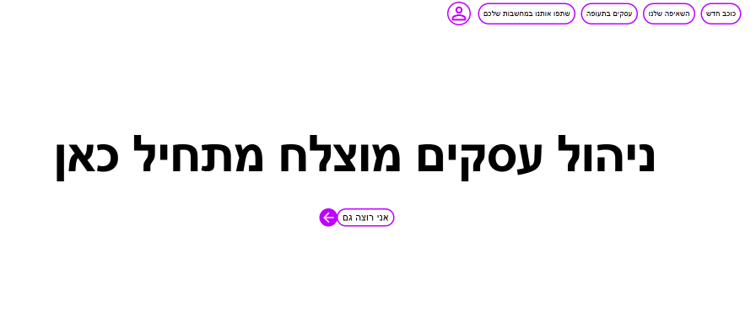
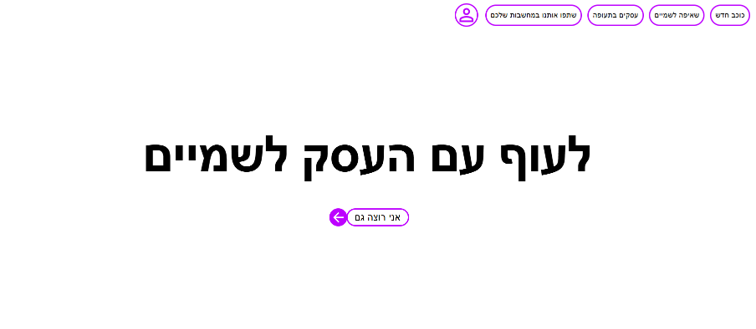
copy

Changed region(s): [[0.0608, 0.3951, 0.8823, 0.5471], [0.578, 0.0, 1.0, 0.0912], [0.4259, 0.6079, 0.5476, 0.6991]]

diff --git a/src/components/webmind/ourdoing.tsx b/src/components/webmind/ourdoing.tsx
@@ -14,24 +14,26 @@ export const OurDoing = () => {
                 <Grid width={"50%"} border={'5px solid '+colors.backgroundcolor} borderRadius={'40px'} marginRight={'25%'} marginBottom={'-25px'} sx={{backgroundColor: colors.backgroundcolor}} zIndex={1}>
                   <Typography variant="body1" fontSize={'24px'} color={colors.anothercolor} border={'3px solid '+colors.anothercolor} borderRadius={'40px'}>1</Typography>
                 </Grid>
-                <Typography variant="body1" color={colors.color} padding={'30px'} border={'3px solid '+colors.anothercolor} borderRadius={'40px'}>
-                  התפתחות אישית היא מפתח להצלחה. לכן פיתחנו פלטפורמה ייחודית שבה תוכלו לתכנן סדר יום, ליצור לוח עם מטרות ותזכורות, ולנהל את הזמן שלכם בצורה חכמה. בואו להתחיל את המסע שלכם להצלחה!! אנחנו מאמינים שכל אחד יכול לממש את הפוטנציאל שלו בדרך שמתאימה לו, התחילו להיעזר בפלטפורמה שפיתחנו וגם אתם תגיעו לכוכבים!
+                <Typography variant="body1" color={colors.color} padding={'30px'} border={'3px solid '+colors.anothercolor} borderRadius={'40px'} height={'200px'}>
+                  התפתחות אישית היא מפתח להצלחה. בואו להתחיל את המסע שלכם לשמים!! אנחנו מאמינים שכל אחד יכול לממש את הפוטנציאל שלו בדרך שמתאימה לו, התחילו להיעזר בפלטפורמה שפיתחנו וגם אתם תגיעו לכוכבים!
                 </Typography>
               </Grid>
               <Grid container width={'30%'}>
                 <Grid width={"50%"} border={'5px solid '+colors.backgroundcolor} borderRadius={'40px'} marginRight={'25%'} marginBottom={'-25px'} sx={{backgroundColor: colors.backgroundcolor}} zIndex={1}>
                   <Typography variant="body1" fontSize={'24px'} color={colors.anothercolor} border={'3px solid '+colors.anothercolor} borderRadius={'40px'}>2</Typography>
                 </Grid>
-                <Typography variant="body1" color={colors.color} padding={'30px'} border={'3px solid '+colors.anothercolor} borderRadius={'40px'}>
-                  התפתחות אישית היא מפתח להצלחה. לכן פיתחנו פלטפורמה ייחודית שבה תוכלו לתכנן סדר יום, ליצור לוח עם מטרות ותזכורות, ולנהל את הזמן שלכם בצורה חכמה. בואו להתחיל את המסע שלכם להצלחה!! אנחנו מאמינים שכל אחד יכול לממש את הפוטנציאל שלו בדרך שמתאימה לו, התחילו להיעזר בפלטפורמה שפיתחנו וגם אתם תגיעו לכוכבים!
+                <Typography variant="body1" color={colors.color} padding={'30px'} border={'3px solid '+colors.anothercolor} borderRadius={'40px'} height={'200px'}>
+                  יש לך עסק? רוצה להעיף אותו רחוק? להתפתח? לגעת בשמיים? למשש כוכבים בדרך? <br/>
+                  מחפשים בעלי מקצוע? אנשים עם מעוף? רוצים להגיע לשמיים? לעוף עם היצירתיות? לקבל השראה? <br/>
+                  במיוחד בשבילכם!!
                 </Typography>
               </Grid>
               <Grid container width={'30%'}>
                 <Grid width={"50%"} border={'5px solid '+colors.backgroundcolor} borderRadius={'40px'} marginRight={'25%'} marginBottom={'-25px'} sx={{backgroundColor: colors.backgroundcolor}} zIndex={1}>
                   <Typography variant="body1" fontSize={'24px'} color={colors.anothercolor} border={'3px solid '+colors.anothercolor} borderRadius={'40px'}>3</Typography>
                 </Grid>
-                <Typography variant="body1" color={colors.color} padding={'30px'} border={'3px solid '+colors.anothercolor} borderRadius={'40px'}>
-                  התפתחות אישית היא מפתח להצלחה. לכן פיתחנו פלטפורמה ייחודית שבה תוכלו לתכנן סדר יום, ליצור לוח עם מטרות ותזכורות, ולנהל את הזמן שלכם בצורה חכמה. בואו להתחיל את המסע שלכם להצלחה!! אנחנו מאמינים שכל אחד יכול לממש את הפוטנציאל שלו בדרך שמתאימה לו, התחילו להיעזר בפלטפורמה שפיתחנו וגם אתם תגיעו לכוכבים!
+                <Typography variant="body1" color={colors.color} padding={'30px'} border={'3px solid '+colors.anothercolor} borderRadius={'40px'} height={'200px'}>
+                  עוד כוכבים – רעיונות חדשניים ויצירתיים בדרך לשמים, פרויקטים עם עזרה לזולת, חשיבה על השני, תעופה רחוק. מחכים לכוכבים שלכם שיעזרו לנו לעוף לשמיים, ולרעיונות שיתרמו לנו בדרך להצלחה.
                 </Typography>
               </Grid>
             </Grid>

diff --git a/src/components/webmind/projects.tsx b/src/components/webmind/projects.tsx
@@ -1,49 +1,48 @@
-import { Carousel } from 'react-responsive-carousel';
+import { Box, Grid, Typography } from "@mui/material";
+import Slider from 'react-slick';
+import { useAppSelector } from "../../server/state/hooks";
+import { Link } from "react-router-dom";
 import business from "../../assets/business.png";
 import happiness from "../../assets/happiness.png";
-import { Link } from 'react-router-dom';
-import { Box, Grid, IconButton, Typography } from '@mui/material';
-import { useAppSelector } from '../../server/state/hooks';
-import { ArrowBackIos, ArrowForwardIos } from '@mui/icons-material';
-import '../../style/carusel.css'
 
 export const Projects = () => {
 
   const colors = useAppSelector((state) => state.colorsSlice.webmind);
 
+    const settings = {
+      dots: false,
+      infinite: true,
+      speed: 500,
+      slidesToShow: 1,
+      slidesToScroll: 1,
+      autoplay: true,
+      autoplaySpeed: 3000,
+      rtl: true,
+      // nextArrow: (<IconButton><ArrowForwardIos sx={{color: colors.color, fontSize: '50px', position: 'absolute', top: '50%', right: '10px', zIndex: 2}}/></IconButton>),
+      // prevArrow: (<IconButton><ArrowBackIos sx={{color: colors.color, fontSize: '50px', position: 'absolute', top: '50%', left: '10px', zIndex: 2}}/></IconButton>),
+  };
+
+  const projects = [
+    {src: business, link: "/business"},
+    {src: happiness, link: "/happiness"}
+  ];
+
   return (
-    <Grid container justifyContent="center" alignItems="center" direction={'column'} sx={{backgroundColor: colors.backgroundcolor, width: '100vw', padding: '20px'}}>
-      <Typography variant="h3" fontWeight={'bold'} color={colors.color} paddingTop={15} paddingBottom={3} margin={'5px'}>מסע לכוכבים</Typography>
-      <Box sx={{ width: '70%'}}>
-      <Carousel showThumbs={false} infiniteLoop={true} autoPlay={true} interval={5000} useKeyboardArrows={true} dynamicHeight={false} showArrows={true}
-      renderArrowPrev={(clickHandler, hasPrev) => {
-        return (
-          <IconButton onClick={clickHandler} disabled={!hasPrev}
-            sx={{position: 'absolute', top: '50%', left: '10px', transform: 'translateY(-50%)', cursor: 'pointer', zIndex: 3}}>
-            <ArrowBackIos sx={{fontSize: '50px', color: colors.color}}/>
-          </IconButton>
-        );
-      }}
-      renderArrowNext={(clickHandler, hasNext) => {
-        return (
-          <IconButton onClick={clickHandler} disabled={!hasNext}
-            sx={{position: 'absolute', top: '50%', right: '10px', transform: 'translateY(-50%)', cursor: 'pointer', zIndex: 3}}>
-            <ArrowForwardIos sx={{fontSize: '50px', color: colors.color}}/>
-          </IconButton>
-        );}}
-      >
-        <Grid>
-            <Link to={'/business'} target="_blank">
-              <img src={business} alt='business' style={{ width: '80%', height: 'auto', borderRadius: '40px'}}/>
-            </Link>
+    <> 
+        <Grid container justifyContent="center" alignItems="center" direction={'column'} sx={{backgroundColor: colors.backgroundcolor, width: '100vw', padding: '20px'}}>
+            <Typography variant="h3" fontWeight={'bold'} color={colors.color} paddingTop={15} paddingBottom={3} margin={'5px'}>מסע לכוכבים</Typography>
+            <Box sx={{ width: '55%'}}>
+              <Slider {...settings}>
+                {projects.map(project => (
+                  <Grid>
+                    <Link to={project.link} target="_blank">
+                      <img src={project.src} style={{ width: '95%', height: 'auto', borderRadius: '40px', margin: 'auto'}}/>
+                    </Link>
+                  </Grid>
+                ))}
+              </Slider>
+            </Box>
         </Grid>
-        <Grid>
-            <Link to={'/happiness'} target="_blank">
-              <img src={happiness} alt='happiness' style={{ width: '80%', height: 'auto', borderRadius: '40px'}}/>
-            </Link>
-        </Grid>
-        </Carousel>
-      </Box>
-    </Grid>
-  );
+    </>
+  )
 }

diff --git a/src/components/business/numbers.tsx b/src/components/business/numbers.tsx
@@ -1,0 +1,42 @@
+import { Grid, Typography } from "@mui/material"
+import { useAppSelector } from "../../server/state/hooks"
+import { ArrowOutward, Computer, TaskAlt } from "@mui/icons-material";
+
+export const Numbers = () => {
+
+  const colors = useAppSelector((state) => state.colorsSlice.business);
+
+  return (
+    <> 
+        <Grid container justifyContent="center" alignItems="center" direction={'column'} sx={{backgroundColor: colors.backgroundcolor, width: '100vw'}} padding={"20px"}>
+            <Typography variant="h3" fontWeight={'bold'} color={colors.color} paddingTop={15} paddingBottom={3}>בדרך להצלחה</Typography>
+            <Grid container justifyContent="space-around" alignItems="center" direction={'row'} flexWrap={"wrap"} sx={{width: '60%'}}>
+              <Grid container width={'30%'} direction={'column'}>
+                <Grid width={"50%"} border={'5px solid '+colors.backgroundcolor} borderRadius={'40px'} marginRight={'25%'} marginBottom={'-25px'} sx={{backgroundColor: colors.backgroundcolor}} zIndex={1}>
+                  <Typography variant="body1" fontSize={'24px'} color={colors.anothercolor} border={'3px solid '+colors.anothercolor} borderRadius={'40px'}><Computer/></Typography>
+                </Grid>
+                <Typography variant="body1" color={colors.color} fontSize={'18px'} paddingTop={'50px'} paddingRight={'10px'} paddingLeft={'10px'} border={'3px solid '+colors.anothercolor} borderRadius={'40px'} height={'100px'}>
+                    יותר מ-<span style={{fontSize: '20px'}}><b>10,000</b></span> משתמשים נכנסים למערכת ביום
+                </Typography>
+              </Grid>
+              <Grid container width={'30%'}>
+                <Grid width={"50%"} border={'5px solid '+colors.backgroundcolor} borderRadius={'40px'} marginRight={'25%'} marginBottom={'-25px'} sx={{backgroundColor: colors.backgroundcolor}} zIndex={1}>
+                  <Typography variant="body1" fontSize={'24px'} color={colors.anothercolor} border={'3px solid '+colors.anothercolor} borderRadius={'40px'}><ArrowOutward/></Typography>
+                </Grid>
+                <Typography variant="body1" color={colors.color} fontSize={'18px'} paddingTop={'50px'} paddingRight={'10px'} paddingLeft={'10px'} border={'3px solid '+colors.anothercolor} borderRadius={'40px'} height={'100px'}>
+                    <span style={{fontSize: '20px'}}><b>78%</b></span> מהעסקים הגדילו את ההכנסות שלהם ב-<span style={{fontSize: '20px'}}><b>36%</b></span>
+                </Typography>
+              </Grid>
+              <Grid container width={'30%'}>
+                <Grid width={"50%"} border={'5px solid '+colors.backgroundcolor} borderRadius={'40px'} marginRight={'25%'} marginBottom={'-25px'} sx={{backgroundColor: colors.backgroundcolor}} zIndex={1}>
+                  <Typography variant="body1" fontSize={'24px'} color={colors.anothercolor} border={'3px solid '+colors.anothercolor} borderRadius={'40px'}><TaskAlt/></Typography>
+                </Grid>
+                <Typography variant="body1" color={colors.color} fontSize={'18px'} paddingTop={'50px'} paddingRight={'20px'} paddingLeft={'20px'} border={'3px solid '+colors.anothercolor} borderRadius={'40px'} height={'100px'}>
+                    <span style={{fontSize: '20px'}}><b>92%</b></span> מהלקוחות מוצאים את מה שהם צריכים באתר
+                </Typography>
+              </Grid>
+            </Grid>
+        </Grid>
+    </>
+  )
+}

diff --git a/src/components/happiness/about.tsx b/src/components/happiness/about.tsx
@@ -9,8 +9,8 @@ export const About = () => {
     <> 
         <Grid container justifyContent="center" alignItems="center" direction={'column'} sx={{backgroundColor: colors.backgroundcolor, width: '100vw'}}>
             <Typography variant="h3" fontWeight={'bold'} color={colors.color} paddingBottom={3} paddingTop={3}>רצון טוב</Typography>
-            <Typography variant="body1" color={colors.color} textAlign={"center"} width={'45%'} padding={'30px'} border={'3px solid '+colors.anothercolor} borderRadius={'40px'} marginBottom={'50px'}>
-            web mind - פיתוח חדשני לרעיונות יצירתיים. אנו כאן כדי לקחת את הרעיונות צעד קדימה, להפוך אותם למציאות בעזרת פיתוח מתקדם וכלים יצירתיים, עם דמיון והרבה מעוף. המשפט שנותן לנו השראה הוא: לעוף רחוק מעבר לשמיים ובדרך לגעת בכוכבים, המטרה שלנו היא להגשים את הפוטנציאל שטמון בכל אחד מאיתנו ולתרום מהיכולות שלנו לסביבה.אם יש לכם רעיון יצירתי, המלצה שתעיף אותנו רחוק, הערה שתשדרג אותנו, או פשוט מחשבות שאתם רוצים לחלוק – שתפו אותנו! ביחד נגע בכוכבים ונעוף עם היצירתיות מעבר לשמיים, כי השמיים הם רק תחנה בדרך להצלחה!!
+            <Typography variant="body1" fontSize={'20px'} color={colors.color} textAlign={"center"} width={'45%'} padding={'30px'} border={'3px solid '+colors.anothercolor} borderRadius={'40px'} marginBottom={'50px'}>
+            היה לכם אירוע וקניתם או תפרתם שמלות ואין לכם מה לעשות איתם? יש לכם אירוע ואתם מחפשים את שמלת החלומות שלכם? פלטפורמה זו נועדה לתווך בינכם - להשכיר ולשכור שמלות, תוכלו לפרסם את השמלות שלכם וכן להוריד את הקטלוג ולבחור את שמלת החלומות שלכם, שיהיו רק שמחות לכל בית ישראל. בשמחות :)
             </Typography>
         </Grid>
     </>

diff --git a/src/components/business/about.tsx b/src/components/business/about.tsx
@@ -8,9 +8,11 @@ export const About = () => {
   return (
     <> 
         <Grid container justifyContent="center" alignItems="center" direction={'column'} sx={{backgroundColor: colors.backgroundcolor, width: '100vw'}}>
-            <Typography variant="h3" fontWeight={'bold'} color={colors.color} paddingTop={15} paddingBottom={3}>השאיפה שלנו</Typography>
-            <Typography variant="body1" color={colors.color} textAlign={"center"} width={'45%'} padding={'30px'} border={'3px solid '+colors.anothercolor} borderRadius={'40px'}>
-            באתר זה תוכלו לנהל את העסק שלכם בצורה יעילה ואפקטיבית. מערכת הניהול שלנו עוזרת לכם לייעל את תהליכי העבודה, לעקוב אחר ביצועי הצוות, ולשפר את הפרודוקטיביות. כאן תקבלו את כל הכלים הנדרשים להצלחה!            </Typography>
+            <Typography variant="h3" fontWeight={'bold'} color={colors.color} paddingBottom={3}>שאיפה לשמיים</Typography>
+            <Typography variant="body1" fontSize={'20px'} color={colors.color} textAlign={"center"} width={'45%'} padding={'30px'} border={'3px solid '+colors.anothercolor} borderRadius={'40px'}>
+              יש לך עסק? רוצה להעיף אותו רחוק? להתפתח? לגעת בשמיים? למשש כוכבים בדרך? יש לך ידע בתחום מסוים? יצירתי? חדש בתחום? רוצה לשתף את הכישרונות שלך? רוצה שעוד אנשים יכירו אותך? מקום זה במיוחד בשבילך!! <br/>
+              מחפשים בעלי מקצוע? אנשים עם מעוף? רוצים להגיע לשמיים? לעוף עם היצירתיות? לקבל השראה? להתחדש? רוצים להכיר כישרונות חדשים? כוכבים מנצנצים? מקום זה במיוחד בשבילכם!!
+           </Typography>
         </Grid>
     </>
   )

diff --git a/src/components/webmind/about.tsx b/src/components/webmind/about.tsx
@@ -9,7 +9,7 @@ export const About = () => {
     <> 
         <Grid container justifyContent="center" alignItems="center" direction={'column'} sx={{backgroundColor: colors.backgroundcolor, width: '100vw'}}>
             <Typography variant="h3" fontWeight={'bold'} color={colors.color} paddingTop={15} paddingBottom={3}>החלום שלנו</Typography>
-            <Typography variant="body1" color={colors.color} textAlign={"center"} width={'45%'} padding={'30px'} border={'3px solid '+colors.anothercolor} borderRadius={'40px'}>
+            <Typography variant="body1" fontSize={'20px'} color={colors.color} textAlign={"center"} width={'45%'} padding={'30px'} border={'3px solid '+colors.anothercolor} borderRadius={'40px'}>
             web mind - פיתוח חדשני לרעיונות יצירתיים. אנו כאן כדי לקחת את הרעיונות צעד קדימה, להפוך אותם למציאות בעזרת פיתוח מתקדם וכלים יצירתיים, עם דמיון והרבה מעוף. המשפט שנותן לנו השראה הוא: לעוף רחוק מעבר לשמיים ובדרך לגעת בכוכבים, המטרה שלנו היא להגשים את הפוטנציאל שטמון בכל אחד מאיתנו ולתרום מהיכולות שלנו לסביבה.אם יש לכם רעיון יצירתי, המלצה שתעיף אותנו רחוק, הערה שתשדרג אותנו, או פשוט מחשבות שאתם רוצים לחלוק – שתפו אותנו! ביחד נגע בכוכבים ונעוף עם היצירתיות מעבר לשמיים, כי השמיים הם רק תחנה בדרך להצלחה!!
             </Typography>
         </Grid>

diff --git a/src/components/business/businessmanagement.tsx b/src/components/business/businessmanagement.tsx
@@ -4,6 +4,7 @@ import { useAppSelector } from '../../server/state/hooks'
 import { useEffect } from 'react'
 import { About } from './about'
 import { Business } from './business';
+import { Numbers } from './numbers'
 
 export const BusinessManagement = () => {
 
@@ -17,8 +18,9 @@ export const BusinessManagement = () => {
     <>
         <GenericPage logo={"business management"} actions={[
           {name: "כוכב חדש", href: "home", component: HomePage },
-          {name: "השאיפה שלנו", href: "about", component: About },
+          {name: "שאיפה לשמיים", href: "about", component: About },
           {name: "עסקים בתעופה", href: "business", component: Business },
+          {name: "בדרך להצלחה", href: "numbers", component: Numbers },
         ]} colors={colors}/>
     </>
   )

diff --git a/src/components/business/homepage.tsx b/src/components/business/homepage.tsx
@@ -4,7 +4,6 @@ import { keyframes } from '@mui/system';
 import { useAppSelector } from '../../server/state/hooks';
 import { ArrowButton } from '../generic/arrowbutton';
 
-// אנימציה למעבר של הטקסט
 const fadeIn = keyframes`
   0% {
     opacity: 0;
@@ -16,12 +15,10 @@ const fadeIn = keyframes`
   }
 `;
 
-// רשימת המשפטים
 const quotes = [
-  'ניהול עסקים מוצלח מתחיל כאן',
-  'המערכת שלנו תעזור לך לייעל את התהליכים',
-  'עקוב אחר ביצועי הצוות ושפר את התפוקה',
-  'כל הכלים להצלחה שלך במקום אחד'
+  'לעוף עם העסק לשמיים',
+  'להגשים את החלום שלך',
+  'לגעת בכוכבים בדרך להצלחה',
 ];
 
 export const HomePage = () => {

diff --git a/src/App.tsx b/src/App.tsx
@@ -1,5 +1,5 @@
 import './App.css'
-import "react-responsive-carousel/lib/styles/carousel.min.css";
+// import "react-responsive-carousel/lib/styles/carousel.min.css";
 import { WebMind } from './components/webmind/webmind'
 import { Happiness } from './components/happiness/happiness'
 import { BrowserRouter as Router, Route, Routes } from 'react-router-dom';
@@ -15,7 +15,6 @@ function App() {
           <Route path="/" element={<WebMind />} />
           <Route path="/happiness" element={<Happiness />} />
           <Route path="/business" element={<BusinessManagement/>} />
-
         </Routes>
       </Router>
     </>

diff --git a/src/index.css b/src/index.css
@@ -1,2 +1,2 @@
-/* @import "slick-carousel/slick/slick.css"; 
-@import "slick-carousel/slick/slick-theme.css"; */
+@import "slick-carousel/slick/slick.css"; 
+@import "slick-carousel/slick/slick-theme.css";
